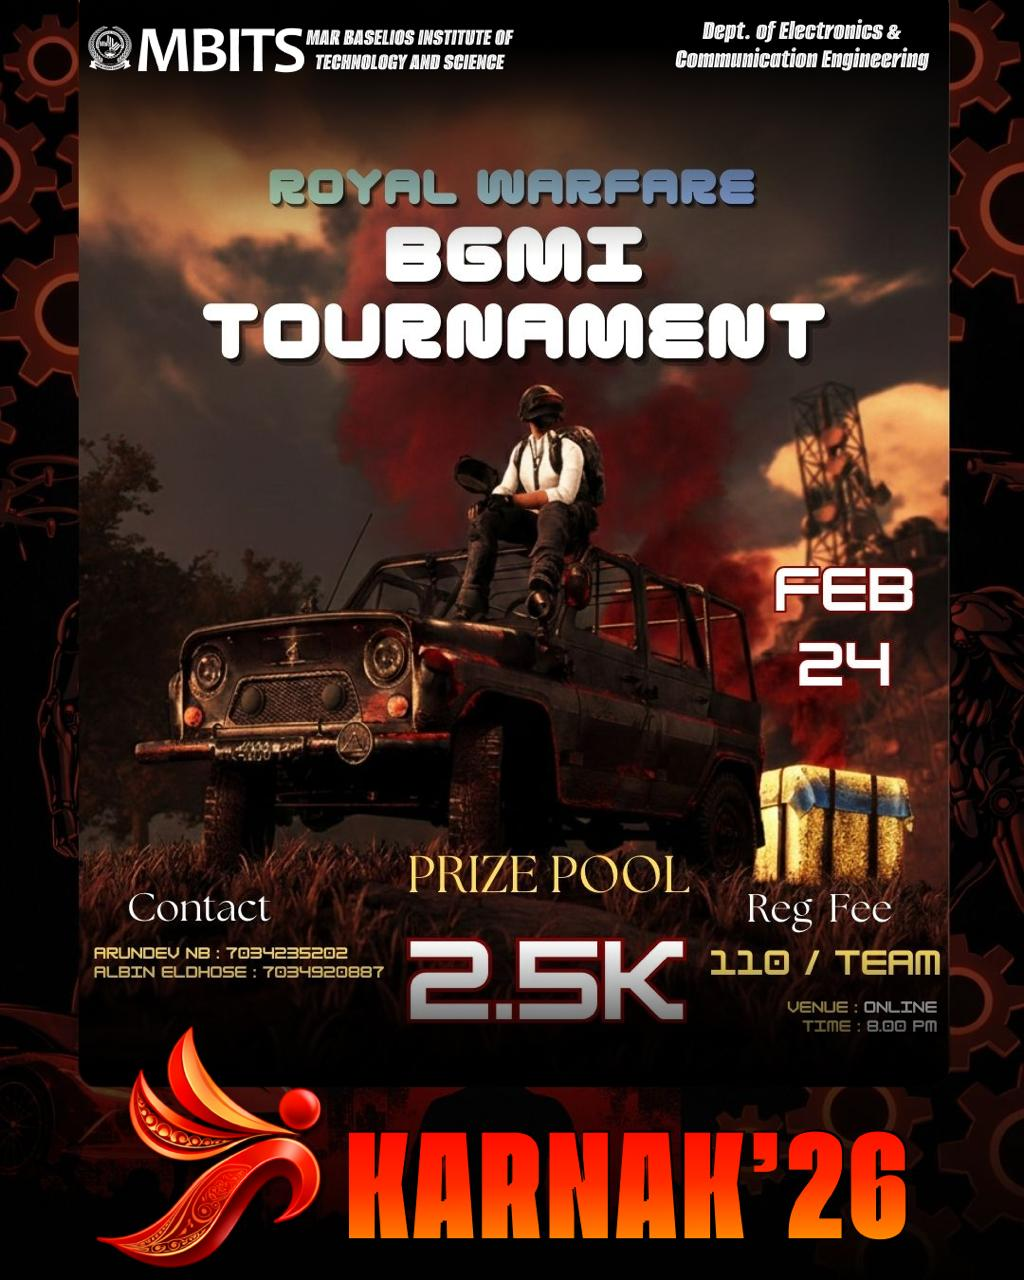
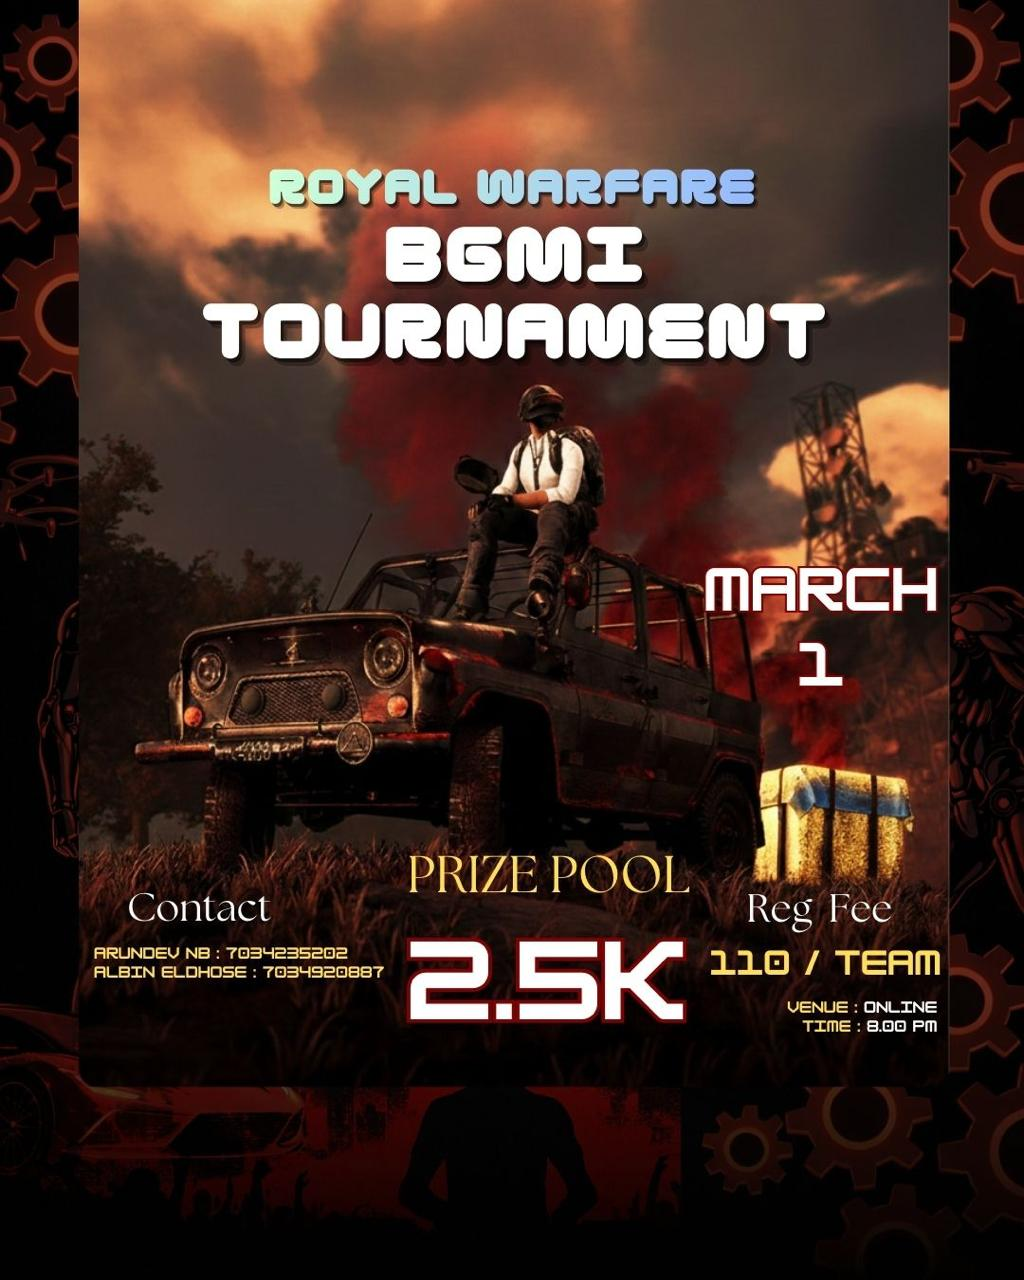
update

diff --git a/src/app/pages/DepartmentsPage.tsx b/src/app/pages/DepartmentsPage.tsx
@@ -694,7 +694,7 @@ const departmentEvents: Record<string, any> = {
       {
         id: 11,
         name: 'ROYALE WARFARE (E GAME – BGMI)',
-        date: 'February 24, 2026',
+        date: 'March 1, 2026',
         fee: '₹110',
         badge: 'Competition',
         image: '/depfolds/ec/bgmi.jpeg',
